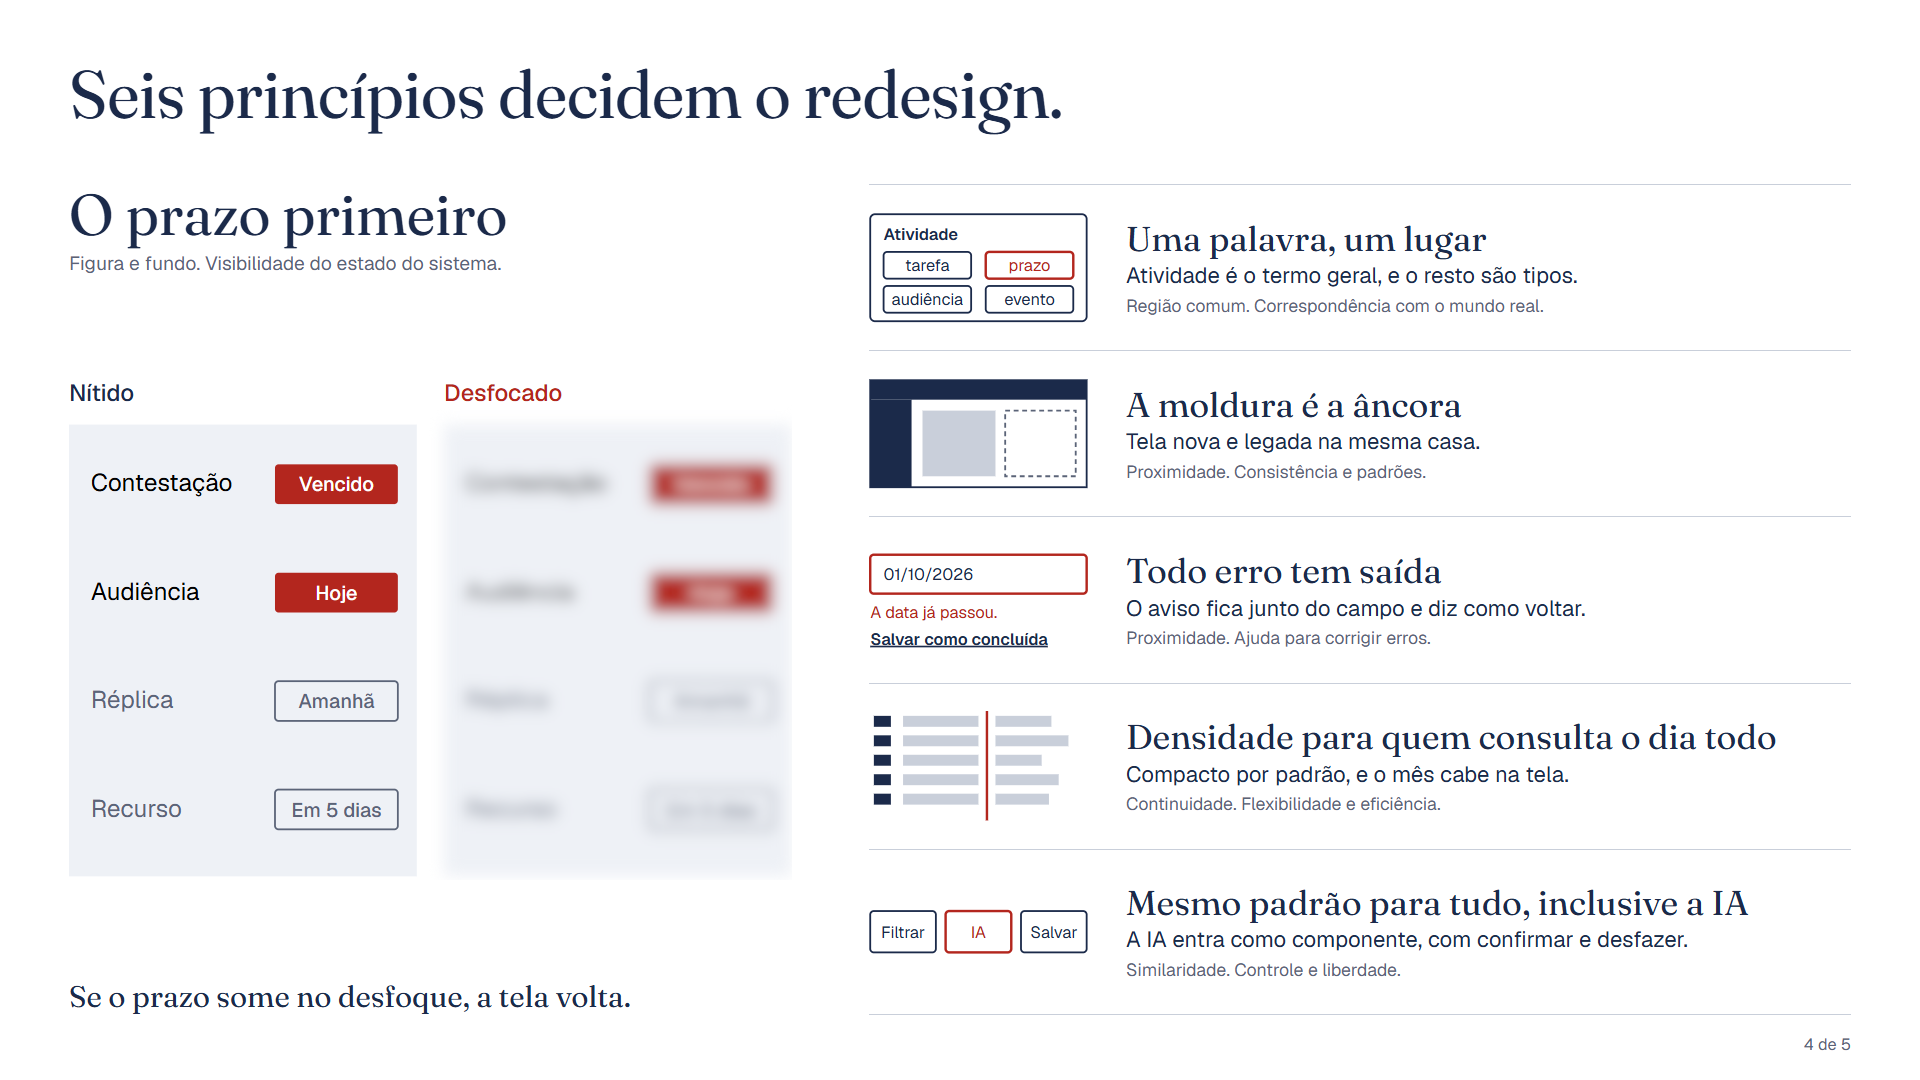
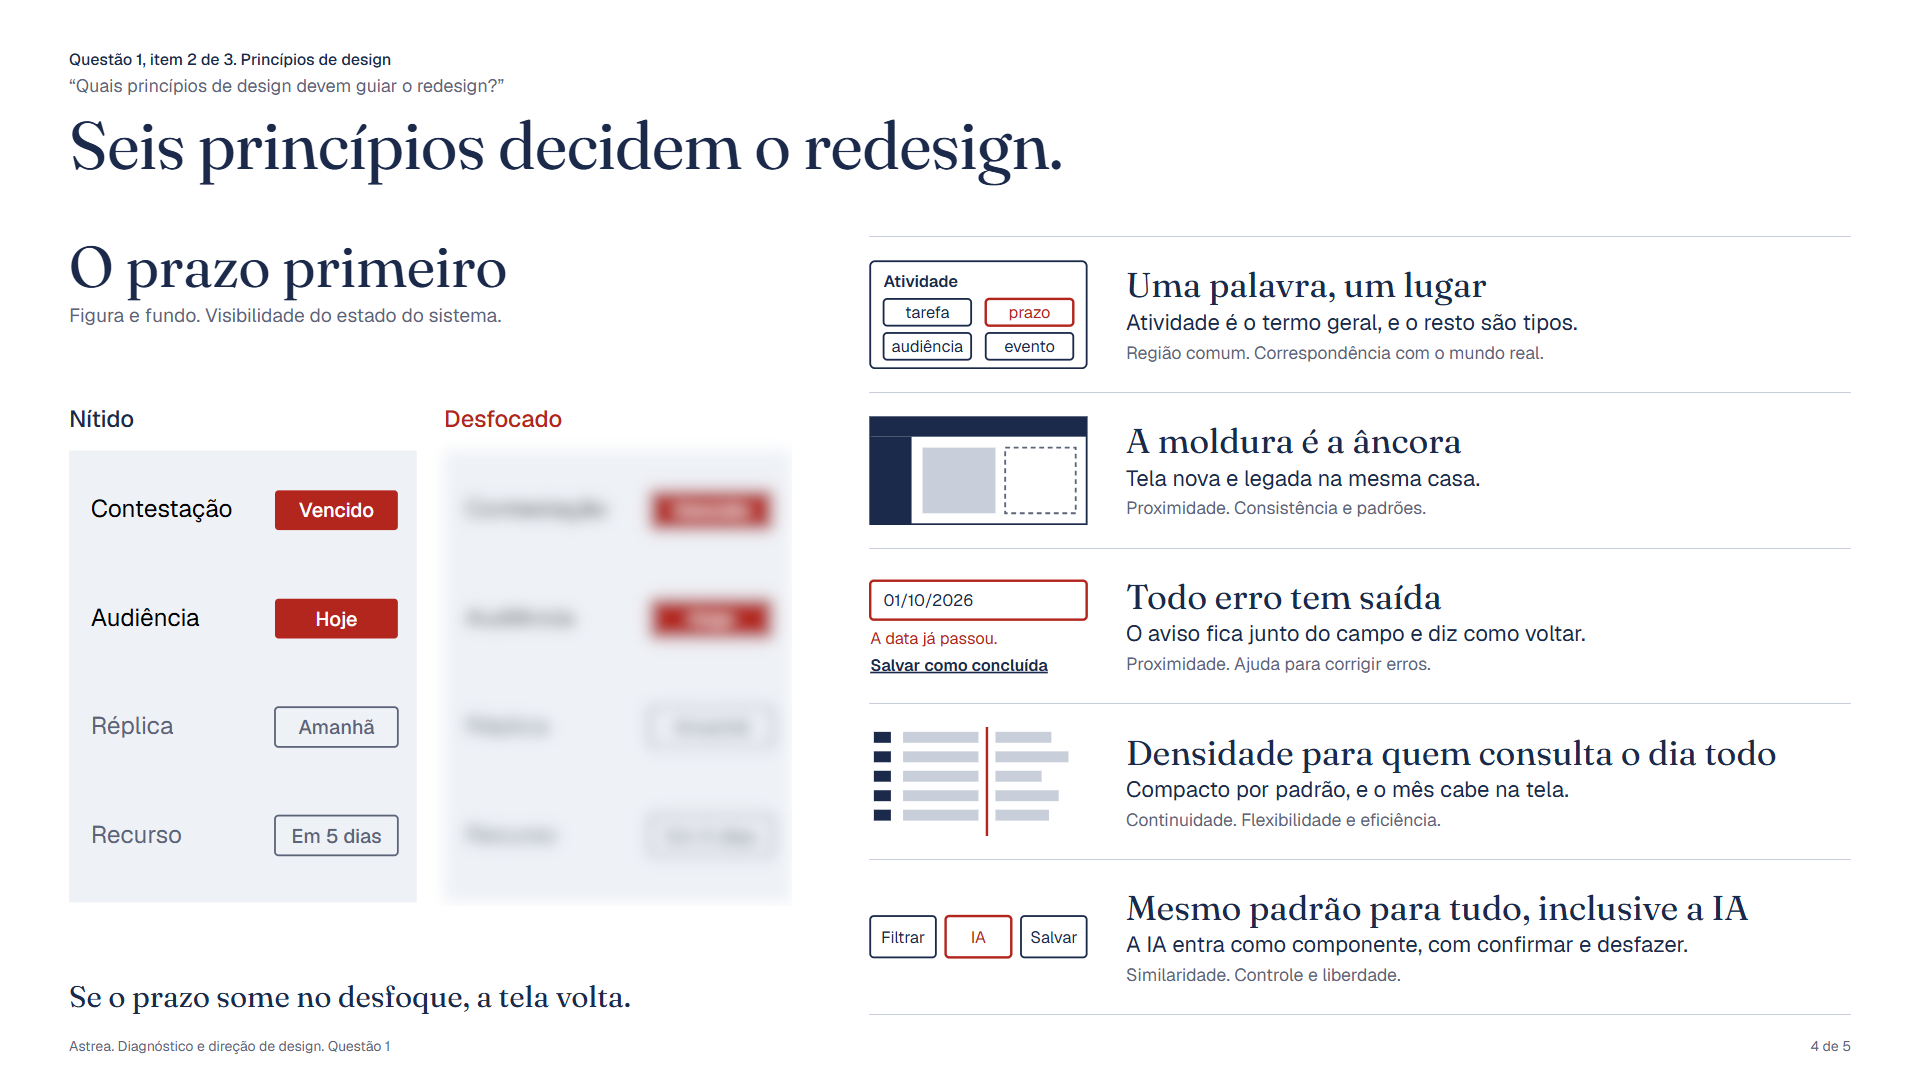
Decks só no modo claro, sem chave de tema, com a mesma estrutura nas três questões
A Questão 1 ganha item, pergunta do enunciado e rodapé, como a 2 e a 3.
As margens das três ficam iguais. Os 16 PNG de slides/ foram exportados
de novo. Lição registrada em docs/licoes.md.

diff --git a/01-slides-q1.html b/01-slides-q1.html
@@ -11,21 +11,18 @@
     --serif: "Fraunces", "Source Serif 4", Georgia, "Times New Roman", serif;
     --sans: "Geist", "IBM Plex Sans", "Segoe UI", system-ui, sans-serif;
   }
-  @media (prefers-color-scheme: dark) { body:not(:has(#tema:checked)) { --paper: #101828; --surface: #182238; --ink: #dce3f0; --text: #dce3f0; --muted: #93a0b8; --inverse: #101828; --line: #2a3752; --line-strong: #dce3f0; --stamp: #e0665c; --page: #0a0f1c; --veil: rgba(16, 24, 40, 0.72); } }
-  @media (prefers-color-scheme: light) { body:has(#tema:checked) { --paper: #101828; --surface: #182238; --ink: #dce3f0; --text: #dce3f0; --muted: #93a0b8; --inverse: #101828; --line: #2a3752; --line-strong: #dce3f0; --stamp: #e0665c; --page: #0a0f1c; --veil: rgba(16, 24, 40, 0.72); } }
-  @media (prefers-color-scheme: no-preference) { body:has(#tema:checked) { --paper: #101828; --surface: #182238; --ink: #dce3f0; --text: #dce3f0; --muted: #93a0b8; --inverse: #101828; --line: #2a3752; --line-strong: #dce3f0; --stamp: #e0665c; --page: #0a0f1c; --veil: rgba(16, 24, 40, 0.72); } }
   * { box-sizing: border-box; }
   html, body { margin: 0; }
   body { background: var(--page); color: var(--text); font-family: var(--sans); padding: 24px 16px 64px; }
-  .tema { position: fixed; top: 12px; right: 16px; z-index: 5; display: inline-flex; align-items: center; gap: 8px; font-size: 13px; color: var(--muted); background: var(--paper); border: 1px solid var(--line); border-radius: var(--radius); padding: 6px 10px; cursor: pointer; }
-  .tema input { accent-color: var(--stamp); margin: 0; }
-  .tema:has(input:focus-visible) { outline: 2px solid var(--stamp); outline-offset: 2px; }
   .capa { max-width: 1600px; margin: 0 auto 24px; color: var(--muted); font-size: 14px; line-height: 1.5; }
 
   .slide { container-type: inline-size; position: relative; width: min(100%, 1600px); aspect-ratio: 16 / 9; margin: 0 auto 32px; background: var(--paper); color: var(--text); overflow: hidden; border: 1px solid var(--line); }
-  h2 { position: absolute; top: 3cqw; left: 3.6cqw; right: 3.6cqw; margin: 0; font-family: var(--serif); font-weight: 400; font-size: 3.5cqw; line-height: 1.08; letter-spacing: -0.008em; }
-  .pag { position: absolute; right: 3.6cqw; bottom: 1.3cqw; margin: 0; font-size: 0.85cqw; color: var(--muted); }
-  .area { position: absolute; top: 9.6cqw; left: 3.6cqw; right: 3.6cqw; bottom: 3.4cqw; display: grid; gap: 4cqw; }
+  .item { position: absolute; top: 2.6cqw; left: 3.6cqw; right: 3.6cqw; margin: 0; font-size: 0.833cqw; font-weight: 500; line-height: 1.3; color: var(--text); }
+  .pergunta { position: absolute; top: 3.85cqw; left: 3.6cqw; right: 3.6cqw; margin: 0; font-size: 0.9375cqw; line-height: 1.3; color: var(--muted); }
+  .pergunta::before { content: "“"; } .pergunta::after { content: "”"; }
+  .rodape { position: absolute; left: 3.6cqw; right: 3.6cqw; bottom: 1.3cqw; margin: 0; display: flex; justify-content: space-between; font-size: 0.729cqw; color: var(--muted); }
+  h2 { position: absolute; top: 5.7cqw; left: 3.6cqw; right: 3.6cqw; margin: 0; font-family: var(--serif); font-weight: 400; font-size: 3.5cqw; line-height: 1.08; letter-spacing: -0.008em; }
+  .area { position: absolute; top: 12.3cqw; left: 3.6cqw; right: 3.6cqw; bottom: 3.4cqw; display: grid; gap: 4cqw; }
   .coluna { display: flex; flex-direction: column; min-width: 0; min-height: 0; justify-content: space-between; gap: 1cqw; }
   h3 { display: flex; align-items: center; gap: 0.8cqw; margin: 0; font-size: 1.75cqw; font-weight: 500; line-height: 1.2; }
   .n { flex: none; display: inline-grid; place-items: center; width: 2.1cqw; height: 2.1cqw; border-radius: 50%; background: var(--stamp); color: var(--inverse); font-size: 1.15cqw; font-weight: 600; font-variant-numeric: tabular-nums; }
@@ -41,7 +38,7 @@
   .moldado { border: 1px solid var(--line); border-radius: var(--radius); overflow: hidden; }
 
   /* 1 */
-  .s1 h2 { top: 3.2cqw; font-size: 5.2cqw; }
+  .s1 h2 { top: 5.9cqw; font-size: 5.2cqw; }
   .s1 .tela { position: absolute; left: 0; bottom: 0; width: 77.4cqw; border-top: 1px solid var(--line); border-right: 1px solid var(--line); }
   .s1 ol { position: absolute; left: 79.8cqw; right: 3.6cqw; top: 19.4cqw; margin: 0; padding: 0; list-style: none; display: grid; gap: 1.9cqw; }
   .s1 li { display: grid; grid-template-columns: 2.1cqw 1fr; gap: 0.8cqw; font-size: 1.42cqw; line-height: 1.22; font-weight: 500; }
@@ -127,12 +124,13 @@
 </head>
 <body>
 
-<label class="tema" for="tema"><input type="checkbox" id="tema"> Trocar tema</label>
 
 <p class="capa">Questão 1. Cinco frames de 1920 por 1080. O texto completo do diagnóstico está em <code>01-diagnostico.md</code>.</p>
 
 <!-- ============ 1 ============ -->
 <section class="slide s1" id="q1s1">
+  <p class="item">Questão 1, item 1 de 3. Os cinco problemas</p>
+  <p class="pergunta">Quais são os 5 problemas de experiência mais relevantes, com evidência e por que importam?</p>
   <h2>O Astrea sabe o que é um prazo.<br>A interface ainda não mostra isso.</h2>
   <svg class="tela" viewBox="0 58 1880 908" role="img" aria-label="Área de trabalho do Astrea com cinco trechos marcados: faixa de campanha, título com a palavra tarefa, botão de criar, estatísticas em azul de link e Lembretes no fim da coluna direita">
     <defs><mask id="m1"><rect width="1901" height="966" fill="#fff"/><rect x="0" y="58" width="1895" height="63" fill="#000"/><rect x="575" y="360" width="408" height="42" rx="6" fill="#000"/><rect x="615" y="655" width="325" height="60" rx="8" fill="#000"/><rect x="1266" y="596" width="256" height="198" rx="6" fill="#000"/><rect x="1264" y="878" width="300" height="88" rx="6" fill="#000"/></mask></defs>
@@ -155,11 +153,13 @@
     <li><span class="n">4</span>Três azuis, três cinzas, três jeitos de criar</li>
     <li><span class="n">5</span>A moldura compete com o trabalho</li>
   </ol>
-  <p class="pag">1 de 5</p>
+  <footer class="rodape"><span>Astrea. Diagnóstico e direção de design. Questão 1</span><span>1 de 5</span></footer>
 </section>
 
 <!-- ============ 2 ============ -->
 <section class="slide s2" id="q1s2">
+  <p class="item">Questão 1, item 1 de 3. Problemas 1 e 2</p>
+  <p class="pergunta">Quais são os 5 problemas de experiência mais relevantes, com evidência e por que importam?</p>
   <h2>O prazo se esconde. A atividade se espalha.</h2>
   <div class="area">
     <div class="coluna">
@@ -202,11 +202,13 @@
       <p class="por-que">Quem busca precisa saber onde a atividade está e como ela se chama.</p>
     </div>
   </div>
-  <p class="pag">2 de 5</p>
+  <footer class="rodape"><span>Astrea. Diagnóstico e direção de design. Questão 1</span><span>2 de 5</span></footer>
 </section>
 
 <!-- ============ 3 ============ -->
 <section class="slide s3" id="q1s3">
+  <p class="item">Questão 1, item 1 de 3. Problemas 3, 4 e 5</p>
+  <p class="pergunta">Quais são os 5 problemas de experiência mais relevantes, com evidência e por que importam?</p>
   <h2>Criar interrompe, a paleta varia, a moldura compete.</h2>
   <div class="area">
     <div class="coluna">
@@ -257,11 +259,13 @@
       </div>
     </div>
   </div>
-  <p class="pag">3 de 5</p>
+  <footer class="rodape"><span>Astrea. Diagnóstico e direção de design. Questão 1</span><span>3 de 5</span></footer>
 </section>
 
 <!-- ============ 4 ============ -->
 <section class="slide s4" id="q1s4">
+  <p class="item">Questão 1, item 2 de 3. Princípios de design</p>
+  <p class="pergunta">Quais princípios de design devem guiar o redesign?</p>
   <h2>Seis princípios decidem o redesign.</h2>
   <div class="area">
     <div class="coluna">
@@ -310,11 +314,13 @@
       </li>
     </ul>
   </div>
-  <p class="pag">4 de 5</p>
+  <footer class="rodape"><span>Astrea. Diagnóstico e direção de design. Questão 1</span><span>4 de 5</span></footer>
 </section>
 
 <!-- ============ 5 ============ -->
 <section class="slide s5" id="q1s5">
+  <p class="item">Questão 1, item 3 de 3. O que validar</p>
+  <p class="pergunta">O que validar antes de seguir, e como?</p>
   <h2>Caro de corrigir se confirma antes. O resto segue por token.</h2>
   <div class="area">
     <table>
@@ -332,7 +338,7 @@
     </table>
     <p class="legenda"><span><i class="ponto"></i>Fonte a cruzar</span><span><i class="ponto meio"></i>A planilha responde em parte</span><strong>Duas fontes de tipos diferentes na mesma direção confirmam.</strong></p>
   </div>
-  <p class="pag">5 de 5</p>
+  <footer class="rodape"><span>Astrea. Diagnóstico e direção de design. Questão 1</span><span>5 de 5</span></footer>
 </section>
 
 </body>

diff --git a/03-slides-q3.html b/03-slides-q3.html
@@ -11,17 +11,12 @@
     --serif: "Fraunces", "Source Serif 4", Georgia, "Times New Roman", serif;
     --sans: "Geist", "IBM Plex Sans", "Segoe UI", system-ui, sans-serif;
   }
-  @media (prefers-color-scheme: dark) { body:not(:has(#tema:checked)) { --paper: #101828; --surface: #182238; --ink: #dce3f0; --text: #dce3f0; --muted: #93a0b8; --inverse: #101828; --line: #2a3752; --line-strong: #dce3f0; --stamp: #e0665c; --page: #0a0f1c; } }
-  @media (prefers-color-scheme: light) { body:has(#tema:checked) { --paper: #101828; --surface: #182238; --ink: #dce3f0; --text: #dce3f0; --muted: #93a0b8; --inverse: #101828; --line: #2a3752; --line-strong: #dce3f0; --stamp: #e0665c; --page: #0a0f1c; } }
-  @media (prefers-color-scheme: no-preference) { body:has(#tema:checked) { --paper: #101828; --surface: #182238; --ink: #dce3f0; --text: #dce3f0; --muted: #93a0b8; --inverse: #101828; --line: #2a3752; --line-strong: #dce3f0; --stamp: #e0665c; --page: #0a0f1c; } }
   * { box-sizing: border-box; }
   html, body { margin: 0; }
   body { background: var(--page); color: var(--text); font-family: var(--sans); padding: 24px 16px 64px; }
-  .tema { position: fixed; top: 12px; right: 16px; z-index: 2; display: inline-flex; align-items: center; gap: 8px; font-size: 13px; color: var(--muted); background: var(--paper); border: 1px solid var(--line); border-radius: var(--radius); padding: 6px 10px; cursor: pointer; }
-  .tema input { accent-color: var(--stamp); margin: 0; }
   .capa { max-width: 1600px; margin: 0 auto 24px; color: var(--muted); font-size: 14px; line-height: 1.5; }
   .capa strong { color: var(--text); font-weight: 500; }
-  .slide { container-type: inline-size; width: min(100%, 1600px); aspect-ratio: 16 / 9; margin: 0 auto 32px; background: var(--paper); color: var(--text); display: flex; flex-direction: column; padding: 3.333cqw 5cqw 2.917cqw; gap: 1.8cqw; overflow: hidden; border: 1px solid var(--line); }
+  .slide { container-type: inline-size; width: min(100%, 1600px); aspect-ratio: 16 / 9; margin: 0 auto 32px; background: var(--paper); color: var(--text); display: flex; flex-direction: column; padding: 2.6cqw 3.6cqw 2.917cqw; gap: 1.8cqw; overflow: hidden; border: 1px solid var(--line); }
   .item { font-size: 0.833cqw; font-weight: 500; line-height: 1.3; color: var(--text); margin: 0 0 0.26cqw; }
   .pergunta { font-size: 0.9375cqw; line-height: 1.3; color: var(--muted); margin: 0 0 0.6cqw; max-width: 78cqw; }
   .pergunta::before { content: "“"; } .pergunta::after { content: "”"; }
@@ -176,7 +171,6 @@
 </head>
 <body>
 
-<label class="tema" for="tema"><input type="checkbox" id="tema"> Trocar tema</label>
 
 <p class="capa"><strong>Questão 3, documento-fonte dos slides.</strong> Um frame da tela e três páginas, cada um de 1920 por 1080. Mesma direção visual das Questões 1 e 2. Os componentes aparecem ao vivo, com os tokens do protótipo, e não como imagem. A tela vem de <code>prototipo/area-de-trabalho.html</code>. A captura entra no espaço reservado do primeiro frame. Todo nome e número de processo é fictício.</p>
 

diff --git a/02-slides-q2.html b/02-slides-q2.html
@@ -21,27 +21,6 @@
     --sans: "Geist", "IBM Plex Sans", "Segoe UI", system-ui, sans-serif;
   }
   /* Tema escuro: segue o sistema; a chave inverte o que o sistema disser. */
-  @media (prefers-color-scheme: dark) {
-    body:not(:has(#tema:checked)) {
-      --paper: #101828; --surface: #182238; --ink: #dce3f0; --text: #dce3f0;
-      --muted: #93a0b8; --inverse: #101828; --line: #2a3752; --line-strong: #dce3f0;
-      --stamp: #e0665c; --page: #0a0f1c;
-    }
-  }
-  @media (prefers-color-scheme: light) {
-    body:has(#tema:checked) {
-      --paper: #101828; --surface: #182238; --ink: #dce3f0; --text: #dce3f0;
-      --muted: #93a0b8; --inverse: #101828; --line: #2a3752; --line-strong: #dce3f0;
-      --stamp: #e0665c; --page: #0a0f1c;
-    }
-  }
-  @media (prefers-color-scheme: no-preference) {
-    body:has(#tema:checked) {
-      --paper: #101828; --surface: #182238; --ink: #dce3f0; --text: #dce3f0;
-      --muted: #93a0b8; --inverse: #101828; --line: #2a3752; --line-strong: #dce3f0;
-      --stamp: #e0665c; --page: #0a0f1c;
-    }
-  }
 
   * { box-sizing: border-box; }
   html, body { margin: 0; }
@@ -52,14 +31,6 @@
     padding: 24px 16px 64px;
   }
 
-  .tema {
-    position: fixed; top: 12px; right: 16px; z-index: 2;
-    display: inline-flex; align-items: center; gap: 8px;
-    font-size: 13px; color: var(--muted);
-    background: var(--paper); border: 1px solid var(--line); border-radius: var(--radius);
-    padding: 6px 10px; cursor: pointer;
-  }
-  .tema input { accent-color: var(--stamp); margin: 0; }
 
   .capa {
     max-width: 1600px; margin: 0 auto 24px; color: var(--muted); font-size: 14px; line-height: 1.5;
@@ -76,7 +47,7 @@
     background: var(--paper);
     color: var(--text);
     display: flex; flex-direction: column;
-    padding: 3.333cqw 5cqw 2.917cqw;       /* 64 96 56 */
+    padding: 2.6cqw 3.6cqw 2.917cqw;       /* 64 96 56 */
     gap: 2.083cqw;                          /* 40 */
     overflow: hidden;
     border: 1px solid var(--line);
@@ -180,7 +151,6 @@
 </head>
 <body>
 
-<label class="tema" for="tema"><input type="checkbox" id="tema"> Trocar tema</label>
 
 <p class="capa"><strong>Questão 2, documento-fonte dos slides.</strong> Cada bloco abaixo é um frame de 1920 por 1080. Papel branco, tinta azul, vermelho só no carimbo de decisão. Títulos em Fraunces, texto em Geist, raio único de 4px. Número só onde a ordem é real.</p>
 

diff --git a/docs/licoes.md b/docs/licoes.md
@@ -57,3 +57,18 @@ Hover usa a cor de ação.
 
 **Virou:** o módulo Questionários, em `prototipo/questionarios.html`, e os
 hovers do design system em azul.
+
+### 2026-11-08 — Slide de banca é claro, sem chave de tema
+
+Felipe reprovou os decks das três questões. A estrutura mudava de um para o
+outro. O tema escuro vencia o claro ao abrir. A chave "Trocar tema" ficava no canto.
+
+**Por quê:** o deck é desenhado para o modo claro e projetado numa sala. O
+tema escuro e a chave vieram da regra geral de documento HTML. Essa regra vale
+para documento de leitura, não para slide.
+
+**Regra:** deck de apresentação nasce só no modo claro, sem chave de tema. Os
+decks de uma mesma entrega compartilham cabeçalho, título e rodapé.
+
+**Virou:** os três decks sem `@media (prefers-color-scheme)` e sem a chave. A
+Questão 1 ganhou o cabeçalho e o rodapé da Questão 2 e da Questão 3.
